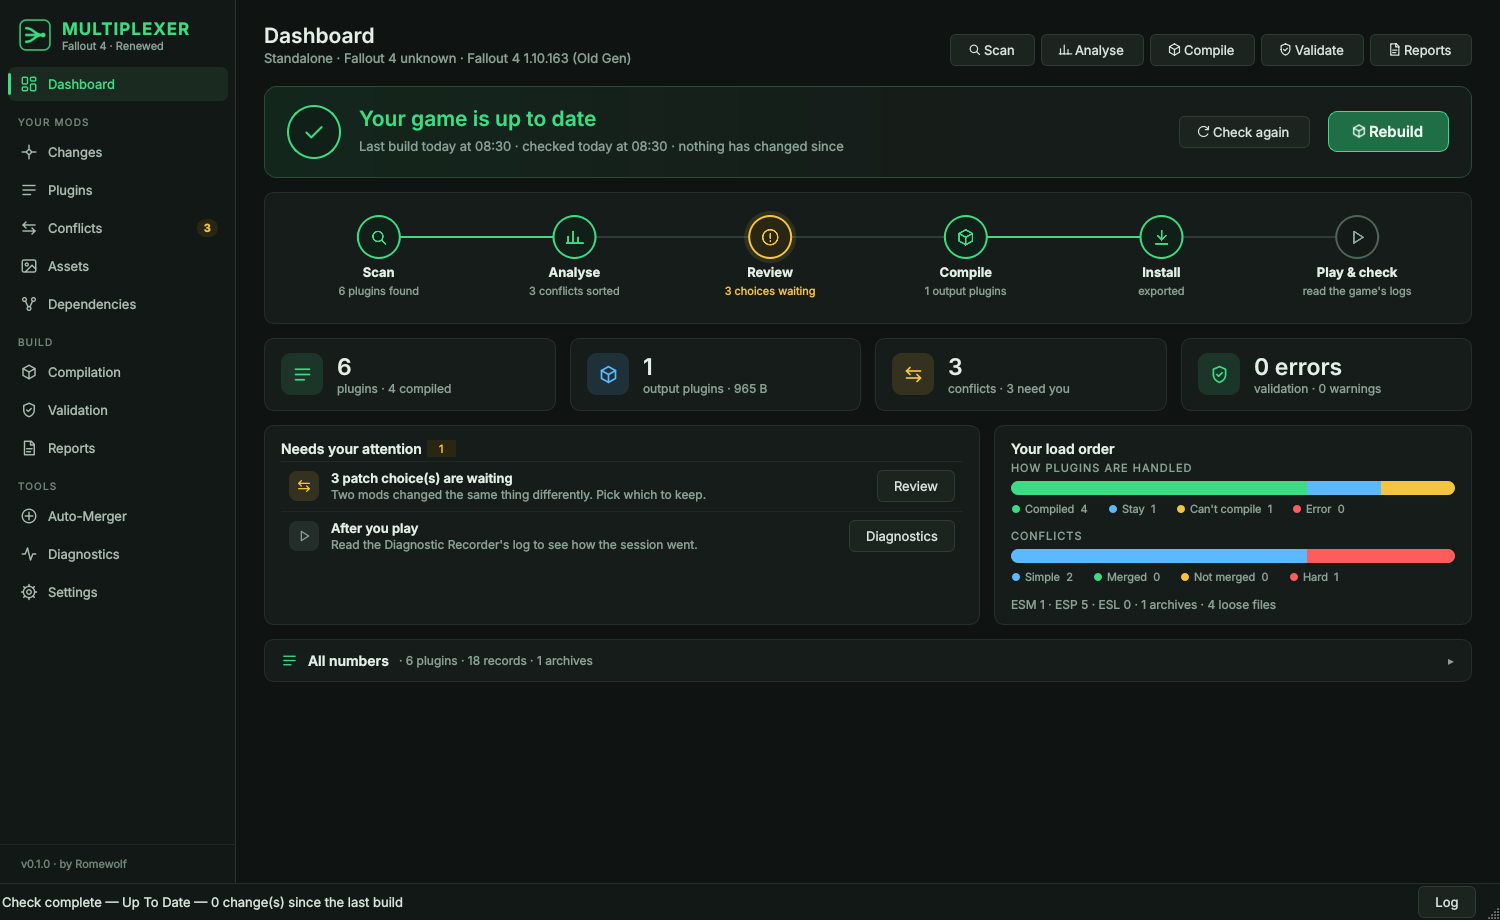
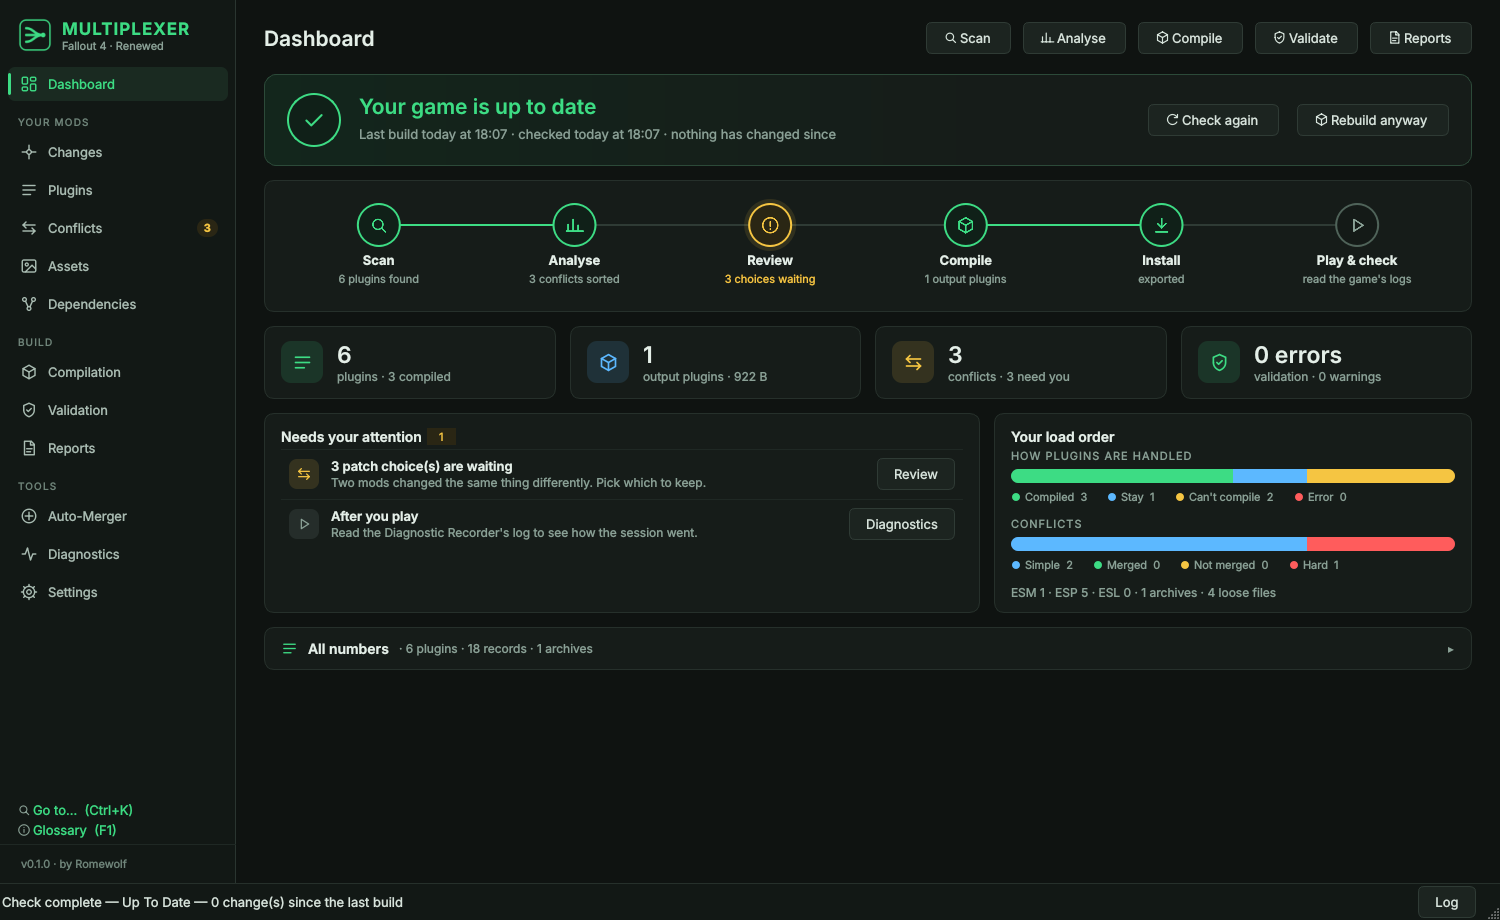
UI: time left and Stop, a summary when a task finishes, setup explainer
The status bar shows the time left in the current step beside a clearer
Stop button. When Scan, Analyse, Compile, Rebuild or Export finishes, a card
in the corner says what it did in plain words, with buttons to what needs
the user. The setup screen explains what happens to the game: what only
reads, what writes where, the backups Apply makes, and how to undo.
Screenshots and the user guide updated.

Claude-Session: https://claude.ai/code/session_01JM4w9Fuz8itqF8yS7X4TLM

diff --git a/src/gui/MainWindow.cpp b/src/gui/MainWindow.cpp
@@ -1,6 +1,7 @@
 #include "MainWindow.hpp"
 
 #include "AppController.hpp"
+#include "Format.hpp"
 #include "Theme.hpp"
 #include "pages/AssetsPage.hpp"
 #include "pages/ChangesPage.hpp"
@@ -28,6 +29,11 @@
 #include <QPushButton>
 #include <QPainter>
 #include <QShortcut>
+#include <QTimer>
+
+#include <algorithm>
+#include <QFrame>
+#include <QResizeEvent>
 #include "widgets/Glossary.hpp"
 #include "widgets/QuickSearch.hpp"
 #include <QSqlQuery>
@@ -219,8 +225,10 @@ MainWindow::MainWindow(AppController* app, QWidget* parent) : QMainWindow(parent
     progress_->setFixedWidth(260);
     progress_->setTextVisible(false);
     progress_->hide();
-    cancel_ = new QPushButton("Cancel");
+    cancel_ = new QPushButton("Stop");
     cancel_->setObjectName("Danger");
+    cancel_->setIcon(lineIcon("block", QColor(0xff, 0xd6, 0xd6), 14));
+    cancel_->setToolTip("Stop the task that is running (nothing is written half-way: the results stay as before)");
     cancel_->hide();
     auto* logToggle = new QPushButton("Log");
     logToggle->setCheckable(true);
@@ -252,17 +260,33 @@ MainWindow::MainWindow(AppController* app, QWidget* parent) : QMainWindow(parent
     connect(app_, &AppController::stageStarted, this, [this](const QString& s) {
         stageLabel_->setText(s + "…");
         progress_->setRange(0, 0);
+        stageClock_.start();
     });
     connect(app_, &AppController::progressChanged, this, [this](qint64 done, qint64 total, const QString& detail) {
+        QString left;
         if (total > 0) {
             progress_->setRange(0, 1000);
             progress_->setValue(int(done * 1000 / total));
+            // Time left in this stage, once enough of it has run to tell.
+            const double f = double(done) / double(total);
+            const qint64 ms = stageClock_.isValid() ? stageClock_.elapsed() : 0;
+            if (f > 0.05 && f < 1.0 && ms > 3000) {
+                const qint64 rest = qint64(ms * (1.0 - f) / f / 1000.0);
+                left = rest < 60 ? QString("about %1 s left").arg(std::max<qint64>(rest, 1))
+                                 : QString("about %1 min left").arg((rest + 30) / 60);
+            }
         }
+        QString text = stageLabel_->text().section("…", 0, 0) + "…";
+        if (!left.isEmpty())
+            text += "  (" + left + ")";
         if (!detail.isEmpty())
-            stageLabel_->setText(stageLabel_->text().section("…", 0, 0) + "…  " + detail);
+            text += "  " + detail;
+        stageLabel_->setText(text);
     });
     connect(app_, &AppController::taskFinished, this, [this](const QString& task, bool ok, const QString& msg) {
         stageLabel_->setText(QString("%1 %2 — %3").arg(task, ok ? "complete" : "failed", msg));
+        if (ok)
+            showSummary(task, msg);
         if (!ok && msg != "Cancelled")
             QMessageBox::warning(this, task + " failed", msg);
     });
@@ -351,6 +375,152 @@ void MainWindow::refreshBadges()
     set("Validation", count("SELECT COUNT(*) FROM ValidationResults WHERE severity IN ('Error', 'Critical')"), "red");
     set("Advanced Users Auto-Merger", count("SELECT COUNT(*) FROM AutoMergePlugins WHERE status LIKE 'Kept out%'"), "red");
     nav_->viewport()->update();
+}
+
+void MainWindow::showSummary(const QString& task, const QString& message)
+{
+    QSqlDatabase db = app_->readDb();
+    auto count = [&](const QString& sql) -> int {
+        if (!db.isOpen())
+            return 0;
+        QSqlQuery q(db);
+        return q.exec(sql) && q.next() ? q.value(0).toInt() : 0;
+    };
+    auto meta = [&](const QString& key) -> QString {
+        if (!db.isOpen())
+            return {};
+        QSqlQuery q(db);
+        q.prepare("SELECT value FROM Meta WHERE key = ?");
+        q.addBindValue(key);
+        return q.exec() && q.next() ? q.value(0).toString() : QString();
+    };
+    QString title, text;
+    std::vector<std::pair<QString, QString>> actions; // (button, page)
+    const int active = count("SELECT COUNT(*) FROM Plugins WHERE active = 1");
+    const int will = count("SELECT COUNT(*) FROM Plugins WHERE eligibility = 'Eligible'");
+    const auto* plan = app_->pipeline() ? app_->pipeline()->patchPlan() : nullptr;
+    const int choices = plan ? int(plan->pending) : 0;
+    const int errors = count("SELECT COUNT(*) FROM ValidationResults WHERE severity IN ('Error', 'Critical')");
+    const int warnings = count("SELECT COUNT(*) FROM ValidationResults WHERE severity = 'Warning'");
+    if (task == "Scan") {
+        title = "Scan complete";
+        text = QString("%1 plugins in your load order. Next: Analyse, to see what can be compiled.").arg(formatCount(active));
+        actions = {{"Plugins", "Plugins"}};
+    } else if (task == "Analyse") {
+        title = "Analysis complete";
+        text = QString("%1 of %2 plugins will compile; %3 stay in the load order.")
+                   .arg(formatCount(will), formatCount(active), formatCount(std::max(0, active - will)));
+        if (choices)
+            text += QString(" %1 patch choice(s) wait for you.").arg(choices);
+        actions = {{"Plugins", "Plugins"}};
+        if (choices)
+            actions.push_back({"Review choices", "Conflicts"});
+        actions.push_back({"Compile", "Compilation"});
+    } else if (task == "Compile" || task == "Rebuild") {
+        title = task == "Rebuild" ? "Rebuild complete" : "Compile complete";
+        const int kept = count("SELECT COUNT(*) FROM Plugins WHERE eligibility_reason LIKE 'Kept out automatically%'");
+        text = QString("%1 plugins compiled into %2 output plugins.")
+                   .arg(meta("compiled_plugins").isEmpty() ? QString("—") : meta("compiled_plugins"),
+                        meta("output_plugins").isEmpty() ? QString("—") : meta("output_plugins"));
+        if (kept)
+            text += QString(" %1 kept out automatically (see their reasons on the Plugins page).").arg(kept);
+        if (errors || warnings)
+            text += QString(" Validation: %1 error(s), %2 warning(s).").arg(errors).arg(warnings);
+        if (errors || warnings)
+            actions.push_back({"Validation", "Validation"});
+        actions.push_back({"Export and install", "Compilation"});
+    } else if (task == "Export") {
+        title = "Export complete";
+        text = message + ". Next: install it (Compilation page, How to install), then start a new game.";
+        actions = {{"How to install", "Compilation"}};
+    } else {
+        return;
+    }
+    if (!summary_) {
+        summary_ = new QFrame(centralWidget());
+        summary_->setObjectName("Toast");
+        summary_->setStyleSheet("QFrame#Toast { background: #16241d; border: 1px solid #2f6b4c; border-radius: 10px; }");
+        summaryTimer_ = new QTimer(this);
+        summaryTimer_->setSingleShot(true);
+        connect(summaryTimer_, &QTimer::timeout, summary_, &QWidget::hide);
+    }
+    // Rebuilt each time: its buttons depend on the task.
+    if (auto* old = summary_->layout()) {
+        while (auto* item = old->takeAt(0)) {
+            if (auto* w = item->widget())
+                w->deleteLater();
+            else if (auto* sub = item->layout()) {
+                while (auto* si = sub->takeAt(0)) {
+                    if (si->widget())
+                        si->widget()->deleteLater();
+                    delete si;
+                }
+            }
+            delete item;
+        }
+        delete old;
+    }
+    auto* l = new QVBoxLayout(summary_);
+    l->setContentsMargins(16, 12, 12, 12);
+    l->setSpacing(6);
+    auto* head = new QHBoxLayout;
+    auto* icon = new QLabel;
+    icon->setPixmap(linePixmap(errors ? "warning" : "check", errors ? theme::kYellow : theme::kGreen, 18));
+    auto* t = new QLabel(title);
+    t->setObjectName("OptionTitle");
+    auto* close = new QPushButton("×");
+    close->setObjectName("LinkButton");
+    close->setFixedWidth(24);
+    close->setToolTip("Close");
+    connect(close, &QPushButton::clicked, summary_, &QWidget::hide);
+    head->addWidget(icon);
+    head->addWidget(t, 1);
+    head->addWidget(close);
+    l->addLayout(head);
+    auto* body = new QLabel(text);
+    body->setWordWrap(true);
+    body->setObjectName("OptionDescription");
+    l->addWidget(body);
+    auto* row = new QHBoxLayout;
+    row->addStretch(1);
+    for (const auto& [label, page] : actions) {
+        auto* b = makeButton(label);
+        connect(b, &QPushButton::clicked, this, [this, page = page] {
+            showPage(page);
+            summary_->hide();
+        });
+        row->addWidget(b);
+    }
+    l->addLayout(row);
+    // Sized from its contents (word wrap needs a width; the window may not have been shown yet).
+    const int width = 420, inner = width - 16 - 12;
+    body->setFixedWidth(inner);
+    int height = 12 + 12;                                                       // margins
+    height += std::max({18, t->sizeHint().height(), close->sizeHint().height()}); // title row
+    height += 6 + body->heightForWidth(inner);
+    if (!actions.empty()) {
+        QPushButton probe("X");
+        height += 6 + probe.sizeHint().height();
+    }
+    summary_->setFixedSize(width, height);
+    placeSummary();
+    summary_->show();
+    summary_->raise();
+    summaryTimer_->start(30000);
+}
+
+void MainWindow::placeSummary()
+{
+    if (!summary_ || !centralWidget())
+        return;
+    const auto area = centralWidget()->rect();
+    summary_->move(area.right() - summary_->width() - 20, area.bottom() - summary_->height() - 16);
+}
+
+void MainWindow::resizeEvent(QResizeEvent* e)
+{
+    QMainWindow::resizeEvent(e);
+    placeSummary();
 }
 
 void MainWindow::refreshAll()

diff --git a/src/gui/SetupDialog.cpp b/src/gui/SetupDialog.cpp
@@ -200,6 +200,31 @@ SetupDialog::SetupDialog(AppController* app, QWidget* parent) : QDialog(parent),
     auto* right = new QVBoxLayout;
     right->setSpacing(8);
     body->addLayout(right, 2);
+    // What happens to the game, in the order it happens: the worry a first-time user has.
+    {
+        auto* card = new QFrame;
+        card->setObjectName("Card");
+        auto* cl = new QVBoxLayout(card);
+        cl->setContentsMargins(14, 12, 14, 12);
+        cl->setSpacing(4);
+        auto* t = new QLabel("What happens to your game");
+        t->setObjectName("SectionTitle");
+        cl->addWidget(t);
+        auto* steps = new QLabel(
+            "<ol style='margin-left:-20px'>"
+            "<li><b>Scan, Analyse, Compile</b> only read your mods.</li>"
+            "<li><b>Export</b> writes the outputs to a new folder and a zip, never over your mods.</li>"
+            "<li><b>Apply to Game</b> (or installing the zip) switches the compiled plugins off and the outputs on. "
+            "Every file it changes is backed up beside it first.</li>"
+            "<li><b>To undo</b>, switch the outputs off and the originals on, or copy a backup back "
+            "(Multiplexer_Instructions.txt has the steps). Your mods' files are never changed.</li>"
+            "</ol><p style='color:#8aa196'>Start a new game after switching over.</p>");
+        steps->setWordWrap(true);
+        steps->setTextFormat(Qt::RichText);
+        steps->setSizePolicy(QSizePolicy::Preferred, QSizePolicy::Minimum);
+        cl->addWidget(steps);
+        right->addWidget(card);
+    }
     auto* previewTitle = new QLabel("Load order that will be used");
     previewTitle->setObjectName("SectionTitle");
     right->addWidget(previewTitle);

diff --git a/src/gui/MainWindow.hpp b/src/gui/MainWindow.hpp
@@ -1,5 +1,6 @@
 #pragma once
 
+#include <QElapsedTimer>
 #include <QMainWindow>
 #include <QMap>
 
@@ -10,6 +11,8 @@ class QProgressBar;
 class QPushButton;
 class QStackedWidget;
 class QDockWidget;
+class QFrame;
+class QTimer;
 
 namespace gui {
 
@@ -25,6 +28,7 @@ public:
 
 protected:
     void closeEvent(QCloseEvent* e) override;
+    void resizeEvent(QResizeEvent* e) override;
 
 private:
     void addGroup(const QString& title);
@@ -42,9 +46,15 @@ private:
     std::vector<std::pair<QString, QString>> pageLabels_; // (label, page name), for quick search
     // Ctrl+K: jump to a page, plugin or record.
     void quickSearch();
+    // A card in the corner when a task finishes: what it did in plain words, and buttons to what needs you.
+    void showSummary(const QString& task, const QString& message);
+    void placeSummary();
+    QFrame* summary_ = nullptr;
+    QTimer* summaryTimer_ = nullptr;
     QProgressBar* progress_;
     QLabel* stageLabel_;
     QPushButton* cancel_;
+    QElapsedTimer stageClock_; // since the current stage started, for the time left
     QPlainTextEdit* log_;
     QDockWidget* logDock_;
 };

diff --git a/src/gui/main.cpp b/src/gui/main.cpp
@@ -13,6 +13,7 @@
 #include <QApplication>
 #include <QCommandLineParser>
 #include <QDir>
+#include <QFrame>
 #include <QEventLoop>
 #include <QFile>
 #include <QLineEdit>
@@ -73,6 +74,12 @@ int runScreenshots(gui::AppController& controller, gui::MainWindow& window, cons
         // A second, incremental build so the screenshots show build-system state.
         runAndWait(&gui::AppController::runRebuild);
         runAndWait(&gui::AppController::runCheck);
+    }
+    // The summary card a finished task shows would cover every screenshot: saved once, then hidden.
+    if (auto* toast = window.findChild<QFrame*>("Toast")) {
+        if (!toast->isHidden())
+            window.grab().save(outDir.filePath("19-task-summary.png"));
+        toast->hide();
     }
 
     const QStringList pages = {"Dashboard", "Changes", "Plugins", "Conflicts", "Assets", "Dependencies",

diff --git a/docs/USER_GUIDE.md b/docs/USER_GUIDE.md
@@ -24,6 +24,16 @@ Untick **Show this screen at start-up** to go straight to the Dashboard next tim
 
 **Finding your way around.** Every page starts with its icon, a title and one line saying what it is for. The longer explanation is behind the **?** next to the title (hover over it); options have their own **?** too. Options are switches with a short description under them. The page's main action is the green button; Save Settings is an ordinary button on the pages that have it, except on Settings itself.
 
+**Shortcuts and help.**
+- **Ctrl+K** (or **Go to…** under the navigation): type part of a page, plugin or record name (Editor ID) and press Enter to open it. A plugin opens on the Plugins page; a record with conflicts in the Conflict Centre; any other record in the record graph.
+- **F1** (or **Glossary**): what the words mean (plugin, master, override, ESL, ITM, ...).
+- **Ctrl+1 … Ctrl+9**: the pages in order.
+- Click a column header to sort a table by it. On the Plugins page, right-click the header to show or hide columns.
+- In a plugin's details, every plugin named (reasons, masters, required by) is a link that opens it.
+- While a task runs, the status bar shows the time left in the current step and a **Stop** button. When it finishes, a card in the corner says what it did in plain words, with buttons to what needs you (closes by itself after 30 seconds).
+
+**Plugin status words.** **Will compile**: goes into the outputs. **Stays in load order**: cannot be compiled, with the reason beside it (it holds something the compiler cannot reproduce, or a plugin that stays needs it as a master). **Kept by you**: excluded, or not among the plugins you chose. **Base game**, **Not enabled**, **Error**. (Reports and exported files keep the technical names: Eligible, Ineligible, Retained, Inactive.)
+
 **Settings** holds the same installation details plus everything else. Choose your installation type:
 
 | Type | What to enter |
